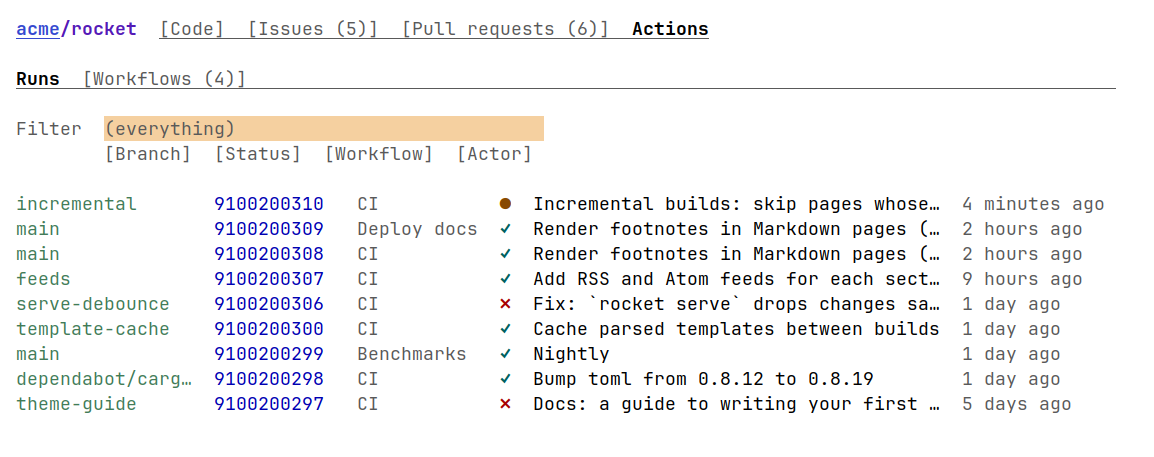
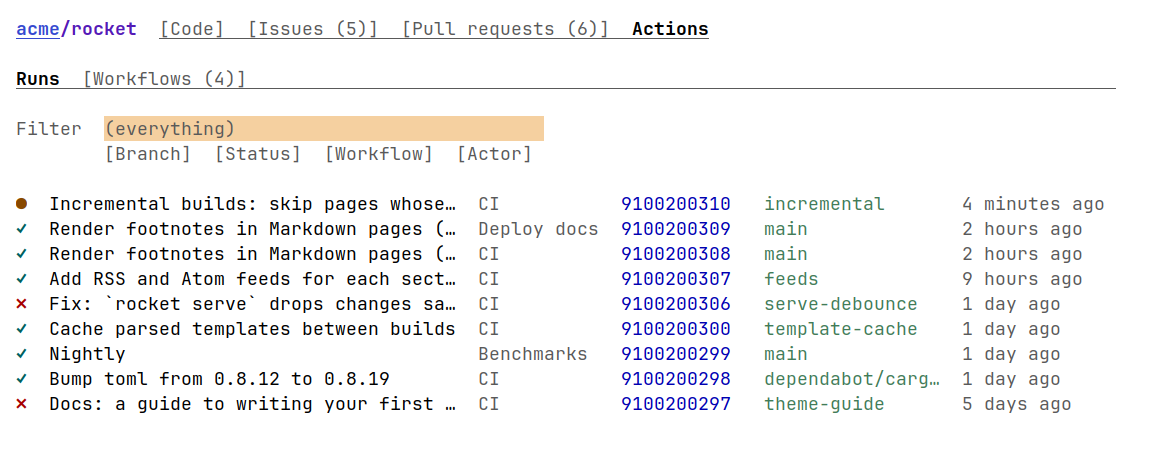
Lay out runs as GitHub does: status and title first
The Runs tab led with the branch and run ID, so the eye had to cross
them to learn what a run was about.  As on GitHub, a row now gives the
status and title, then the workflow, run ID, branch and date.

Changed region(s): [[0.0, 0.4289, 0.8111, 0.919]]

diff --git a/CHANGELOG.md b/CHANGELOG.md
@@ -4,6 +4,7 @@ All notable changes to this project will be documented in this file.
 The format is based on [Keep a Changelog](https://keepachangelog.com/en/1.0.0/).
 
 ## [Unreleased]
+* Runs are laid out as on GitHub: status and title first, then workflow, branch, date
 * A blank line sets the last commit apart in the tree browser and file viewer
 * `C-c C-o` on a repository on its default branch opens the repository's page
 * Long lines in diffs, logs and files are cut, with a button to show the rest
